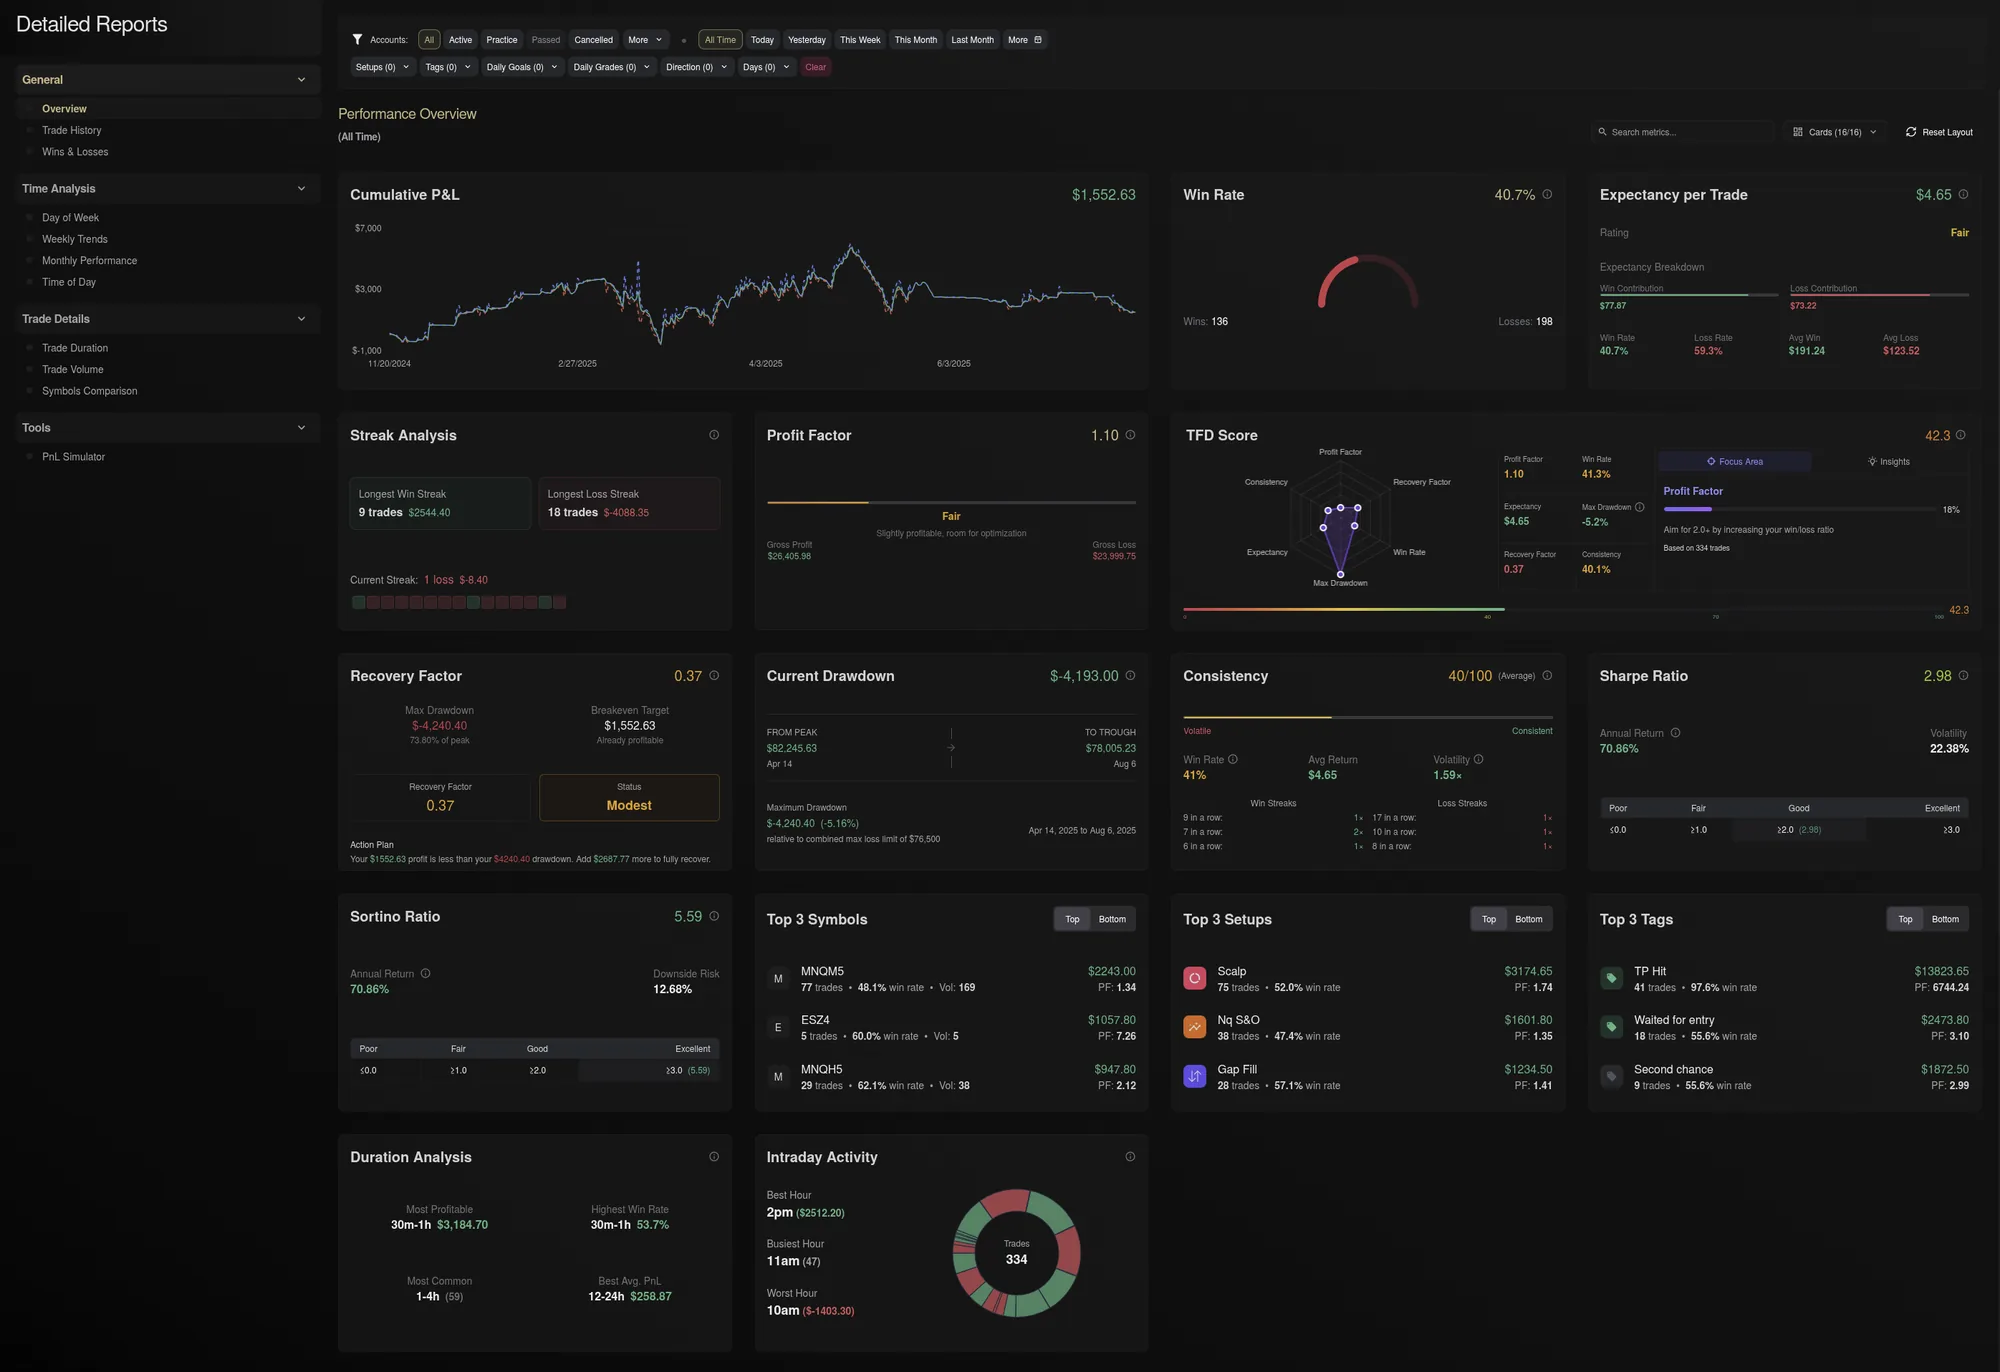
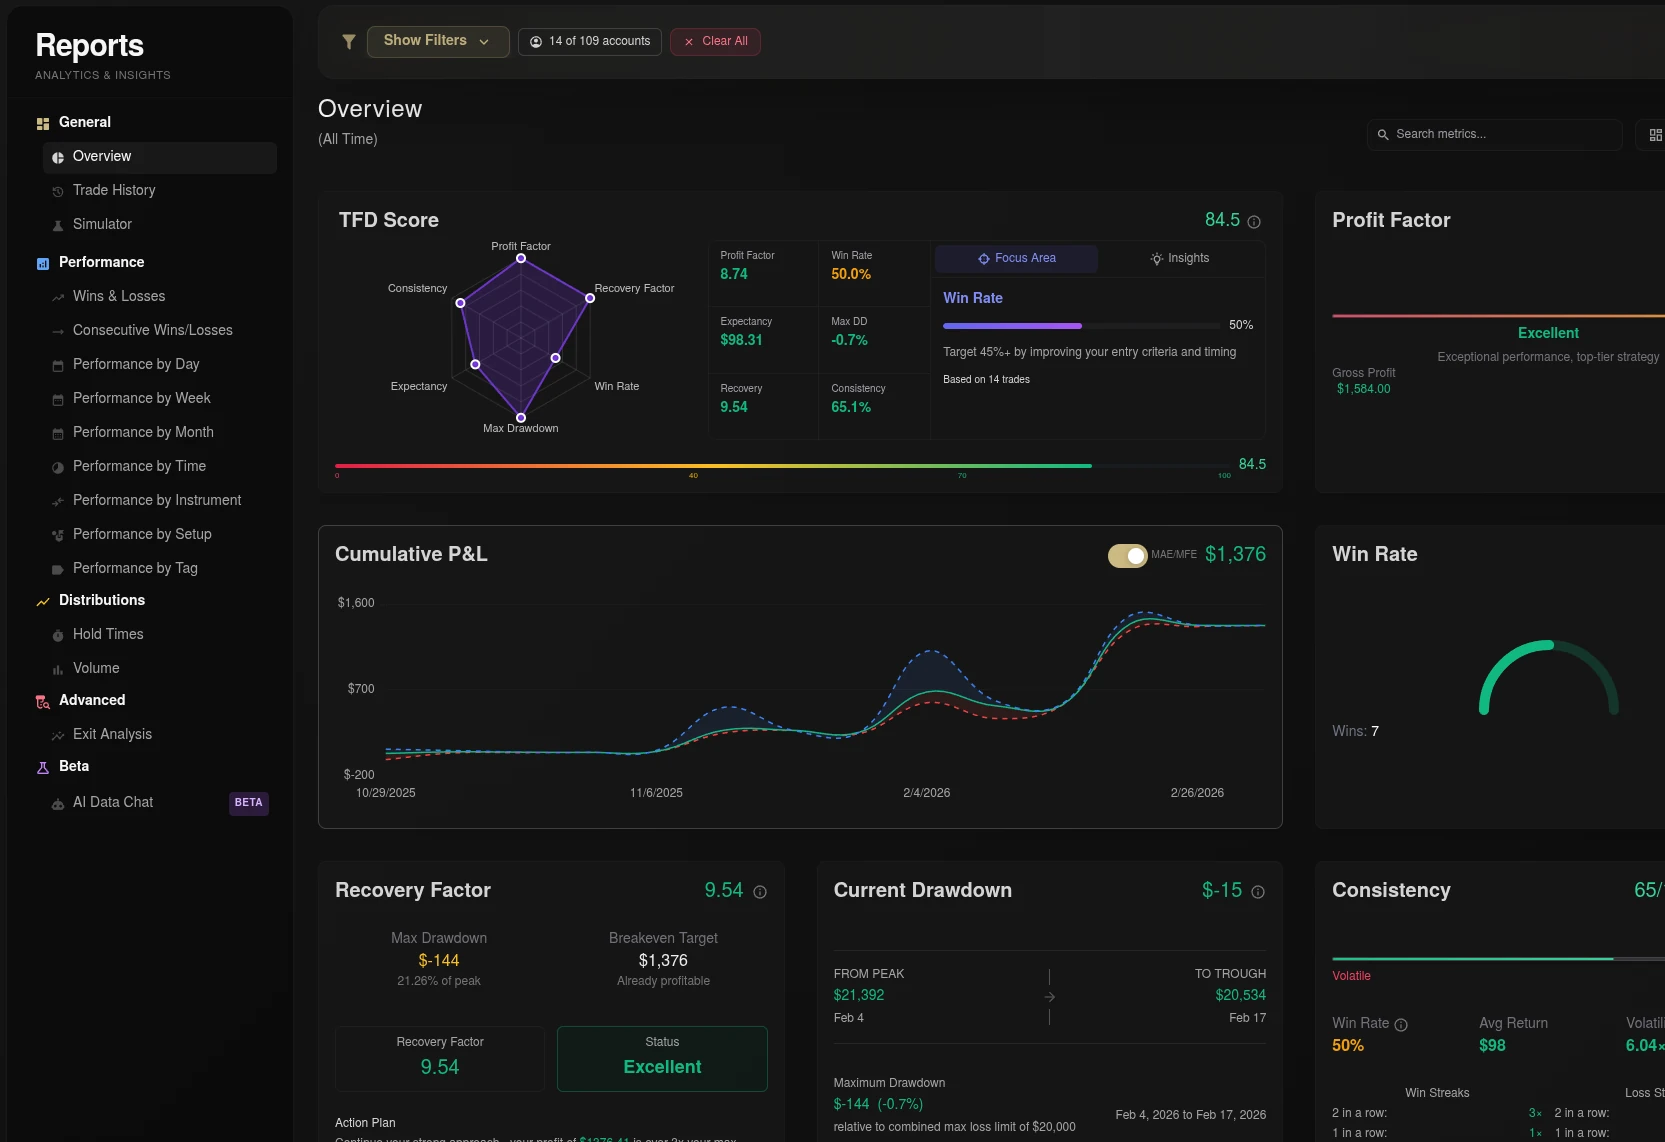
feat(futures-desk): restage the room around the reports page
The reports overview is the strongest screen, so it now fills the room and
runs off its right edge. The yearly recap and the single-trade screen are
shown whole and staggered over its lower corners, so the score and the
chart stay clear. Below 1280px they sit side by side under it instead.

The reports screenshot is a newer capture of the beta layout, and the
room's tile now carries the product's own mark, taken from its public site.

diff --git a/src/components/FuturesDeskRoom.vue b/src/components/FuturesDeskRoom.vue
@@ -4,7 +4,7 @@
     <div class="grid lg:grid-cols-12 gap-x-8 gap-y-8 px-6 sm:px-10 lg:px-14 pt-10 lg:pt-14">
       <div class="lg:col-span-7">
         <div class="flex items-center gap-4">
-          <span class="app-icon w-14 h-14 grid place-items-center bg-black font-brand text-[15px] font-bold tracking-tight text-tfd-gold" aria-hidden="true">TFD</span>
+          <span class="app-icon w-14 h-14 bg-black p-2.5"><img src="/work/futures-desk/logo.webp" alt="" width="132" height="132" class="object-contain"></span>
           <h3 class="font-brand text-[2.1rem] font-bold tracking-[-0.02em] text-tfd-gold">The Futures Desk</h3>
         </div>
         <p class="mt-6 text-xl leading-snug font-medium text-balance">A futures trading firm, and the platform its traders work in.</p>
@@ -44,20 +44,28 @@
       </li>
     </ol>
 
-    <!-- Three screens I built, layered: the reports in a browser window, one trade opened, and the yearly recap -->
-    <div class="relative mt-14 mx-6 sm:mx-10 lg:mx-14 aspect-[4/3.5] sm:aspect-[16/9]">
-      <div class="absolute -inset-x-6 sm:-inset-x-14 -top-14 h-80 bg-[radial-gradient(48%_58%_at_60%_45%,rgba(204,186,131,0.17),transparent)]" aria-hidden="true"></div>
-      <div class="absolute left-0 sm:left-[5%] top-0 w-[185%] sm:w-[84%] overflow-hidden rounded-xl border border-white/15 bg-tfd-bezel shadow-[0_24px_60px_rgba(0,0,0,0.55)]">
-        <div class="flex items-center gap-1.5 h-8 sm:h-9 px-3.5" aria-hidden="true">
-          <span class="w-2.5 h-2.5 rounded-full bg-white/20"></span>
-          <span class="w-2.5 h-2.5 rounded-full bg-white/20"></span>
-          <span class="w-2.5 h-2.5 rounded-full bg-white/20"></span>
-          <span class="ml-3 px-3 py-0.5 rounded-full bg-black/40 text-[11px] sm:text-xs text-white/60">members.thefuturesdesk.com</span>
+    <!-- Three screens I built. The reports page is the big one, running off the room's right edge.
+         On a wide screen the other two are shown whole and staggered over its lower corners: the yearly recap over the
+         sidebar, one opened trade over the right-hand column, so the score and the chart stay clear.
+         On smaller screens they sit side by side under it. -->
+    <div class="relative mt-14 ml-6 sm:ml-10 lg:ml-14 mb-10 lg:mb-14 xl:aspect-[1.2086/1]">
+      <div class="absolute -left-6 sm:-left-14 right-0 -top-14 h-80 bg-[radial-gradient(48%_58%_at_60%_45%,rgba(204,186,131,0.17),transparent)]" aria-hidden="true"></div>
+      <div class="relative xl:absolute xl:inset-x-0 xl:top-0 overflow-hidden aspect-[4/3.2] sm:aspect-[1.575/1] xl:aspect-[1.335/1]">
+        <div class="absolute left-0 xl:left-[4%] top-0 w-[185%] sm:w-[105%] overflow-hidden rounded-xl border border-white/15 bg-tfd-bezel">
+          <div class="flex items-center gap-1.5 h-8 sm:h-9 px-3.5" aria-hidden="true">
+            <span class="w-2.5 h-2.5 rounded-full bg-white/20"></span>
+            <span class="w-2.5 h-2.5 rounded-full bg-white/20"></span>
+            <span class="w-2.5 h-2.5 rounded-full bg-white/20"></span>
+            <span class="ml-3 px-3 py-0.5 rounded-full bg-black/40 text-[11px] sm:text-xs text-white/60">beta.thefuturesdesk.com</span>
+          </div>
+          <img src="/work/futures-desk/reports.webp" alt="The reports overview of The Futures Desk: a score for the trader, profit factor, cumulative profit and loss, win rate, drawdown and consistency" width="1665" height="1142" loading="lazy" decoding="async" class="block w-full h-auto">
         </div>
-        <img src="/work/futures-desk/reports.webp" alt="The reports screen of The Futures Desk: cumulative profit and loss, win rate, streaks, drawdown and a score for the trader" width="2000" height="1372" loading="lazy" decoding="async" class="block w-full h-auto">
+        <div class="absolute inset-x-0 bottom-0 h-24 bg-gradient-to-b from-tfd-night/0 to-tfd-night" aria-hidden="true"></div>
       </div>
-      <img src="/work/futures-desk/trade.webp" alt="One trade opened up: entries, exits, fees and the price chart with each fill marked" width="888" height="1400" loading="lazy" decoding="async" class="absolute right-0 top-[22%] sm:top-[24%] w-[56%] sm:w-[31%] h-auto rounded-xl border border-white/15 shadow-[0_30px_80px_rgba(0,0,0,0.8)]">
-      <img src="/work/futures-desk/recap.webp" alt="A year-in-review card for a trader" width="1108" height="1286" loading="lazy" decoding="async" class="hidden sm:block absolute left-0 -bottom-[10%] w-[23%] h-auto rounded-xl border border-white/15 shadow-[0_30px_80px_rgba(0,0,0,0.8)]">
+      <div class="relative mt-6 sm:-mt-12 pr-6 sm:pr-10 lg:pr-14 grid sm:grid-cols-[1.358fr_1fr] gap-5 sm:gap-6 items-start lg:max-w-[50rem] lg:mx-auto xl:contents">
+        <img src="/work/futures-desk/recap.webp" alt="The 2025 Trading Wrapped card, a trader's year in review: total trades, an activity grid, most traded symbols, streaks and daily goals" width="1108" height="1286" loading="lazy" decoding="async" class="w-full h-auto rounded-xl border border-white/15 shadow-[0_30px_80px_rgba(0,0,0,0.8)] xl:absolute xl:left-0 xl:top-[55.36%] xl:w-[31.9%]">
+        <img src="/work/futures-desk/trade.webp" alt="One trade opened up: entries, exits, fees and the price chart with each fill marked" width="888" height="1400" loading="lazy" decoding="async" class="w-full h-auto rounded-xl border border-white/15 shadow-[0_30px_80px_rgba(0,0,0,0.8)] sm:mt-12 xl:mt-0 xl:absolute xl:right-14 xl:top-[49.9%] xl:w-[24.2%]">
+      </div>
     </div>
   </article>
 </template>
